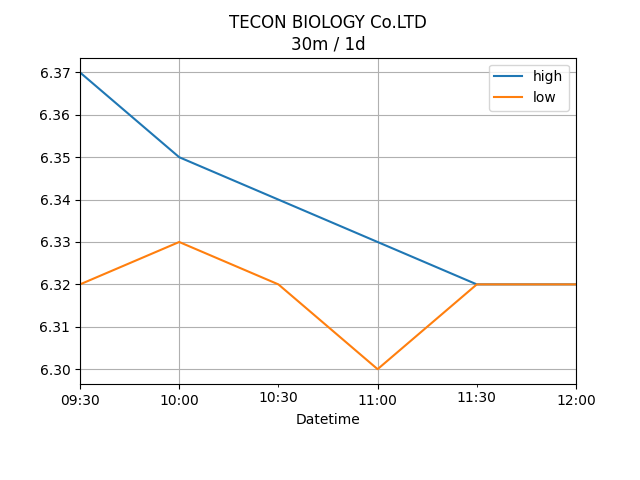
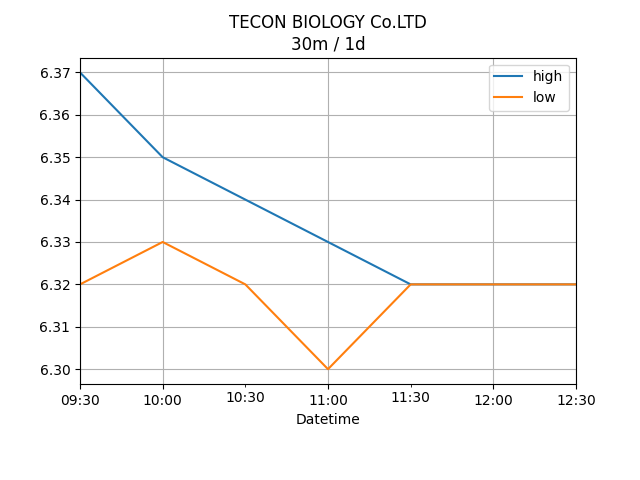
github action

diff --git a/record/mm/summary.md b/record/mm/summary.md
@@ -2,7 +2,7 @@
 ### $-1493.40
 |type|graph|data|
 |:---:|:---:|:---:|
-|30m / 1d|![net_profit](image/overall_30m-1d.png)|<table border="1" class="dataframe"> <thead> <tr style="text-align: center;"> <th>Datetime</th> <th>profit</th> </tr> </thead> <tbody> <tr> <td>01:30</td> <td>-1167.4</td> </tr> <tr> <td>02:00</td> <td>-1167.4</td> </tr> <tr> <td>02:30</td> <td>-1455.4</td> </tr> <tr> <td>03:00</td> <td>-1368.4</td> </tr> <tr> <td>03:30</td> <td>-1493.4</td> </tr> <tr> <td>04:00</td> <td>-1493.4</td> </tr> </tbody></table>|
+|30m / 1d|![net_profit](image/overall_30m-1d.png)|<table border="1" class="dataframe"> <thead> <tr style="text-align: center;"> <th>Datetime</th> <th>profit</th> </tr> </thead> <tbody> <tr> <td>01:30</td> <td>-1167.4</td> </tr> <tr> <td>02:00</td> <td>-1167.4</td> </tr> <tr> <td>02:30</td> <td>-1455.4</td> </tr> <tr> <td>03:00</td> <td>-1368.4</td> </tr> <tr> <td>03:30</td> <td>-1493.4</td> </tr> <tr> <td>04:00</td> <td>-1493.4</td> </tr> <tr> <td>04:30</td> <td>-1493.4</td> </tr> </tbody></table>|
 |1d / 5d|![net_profit](image/overall_1d-5d.png)|<table border="1" class="dataframe"> <thead> <tr style="text-align: center;"> <th>Date</th> <th>profit</th> </tr> </thead> <tbody> <tr> <td>2025-03-23</td> <td>-1574.4</td> </tr> <tr> <td>2025-03-24</td> <td>-1107.4</td> </tr> <tr> <td>2025-03-25</td> <td>-1015.4</td> </tr> <tr> <td>2025-03-26</td> <td>-1379.4</td> </tr> <tr> <td>2025-03-27</td> <td>-1493.4</td> </tr> </tbody></table>|
 |1wk / 1mo|![net_profit](image/overall_1wk-1mo.png)|<table border="1" class="dataframe"> <thead> <tr style="text-align: center;"> <th>Date</th> <th>profit</th> </tr> </thead> <tbody> <tr> <td>2025-02-23</td> <td>-3677.4</td> </tr> <tr> <td>2025-03-02</td> <td>-1101.4</td> </tr> <tr> <td>2025-03-09</td> <td>-819.4</td> </tr> <tr> <td>2025-03-16</td> <td>-1009.4</td> </tr> <tr> <td>2025-03-23</td> <td>-1493.4</td> </tr> </tbody></table>|
 ---
@@ -10,7 +10,7 @@
 #### TECON BIOLOGY Co.LTD
 |price|profit|data|
 |:---:|:---:|:---:|
-|![price](image/002100.SZ_30m-1d_price.png)|![profit](image/002100.SZ_30m-1d_profit.png)|<table border="1" class="dataframe"> <thead> <tr style="text-align: center;"> <th>Datetime</th> <th>profit</th> </tr> </thead> <tbody> <tr> <td>09:30</td> <td>-6167.4</td> </tr> <tr> <td>10:00</td> <td>-6167.4</td> </tr> <tr> <td>10:30</td> <td>-6205.4</td> </tr> <tr> <td>11:00</td> <td>-6243.4</td> </tr> <tr> <td>11:30</td> <td>-6243.4</td> </tr> <tr> <td>12:00</td> <td>-6243.4</td> </tr> </tbody></table>|
+|![price](image/002100.SZ_30m-1d_price.png)|![profit](image/002100.SZ_30m-1d_profit.png)|<table border="1" class="dataframe"> <thead> <tr style="text-align: center;"> <th>Datetime</th> <th>profit</th> </tr> </thead> <tbody> <tr> <td>09:30</td> <td>-6167.4</td> </tr> <tr> <td>10:00</td> <td>-6167.4</td> </tr> <tr> <td>10:30</td> <td>-6205.4</td> </tr> <tr> <td>11:00</td> <td>-6243.4</td> </tr> <tr> <td>11:30</td> <td>-6243.4</td> </tr> <tr> <td>12:00</td> <td>-6243.4</td> </tr> <tr> <td>12:30</td> <td>-6243.4</td> </tr> </tbody></table>|
 |![price](image/002100.SZ_1d-5d_price.png)|![profit](image/002100.SZ_1d-5d_profit.png)|<table border="1" class="dataframe"> <thead> <tr style="text-align: center;"> <th>Date</th> <th>profit</th> </tr> </thead> <tbody> <tr> <td>2025-03-24</td> <td>-6699.4</td> </tr> <tr> <td>2025-03-25</td> <td>-6357.4</td> </tr> <tr> <td>2025-03-26</td> <td>-6015.4</td> </tr> <tr> <td>2025-03-27</td> <td>-6129.4</td> </tr> <tr> <td>2025-03-28</td> <td>-6243.4</td> </tr> </tbody></table>|
 |![price](image/002100.SZ_1wk-1mo_price.png)|![profit](image/002100.SZ_1wk-1mo_profit.png)|<table border="1" class="dataframe"> <thead> <tr style="text-align: center;"> <th>Date</th> <th>profit</th> </tr> </thead> <tbody> <tr> <td>2025-02-24</td> <td>-6927.4</td> </tr> <tr> <td>2025-03-03</td> <td>-6851.4</td> </tr> <tr> <td>2025-03-10</td> <td>-6319.4</td> </tr> <tr> <td>2025-03-17</td> <td>-6509.4</td> </tr> <tr> <td>2025-03-24</td> <td>-6243.4</td> </tr> </tbody></table>|
 ---
